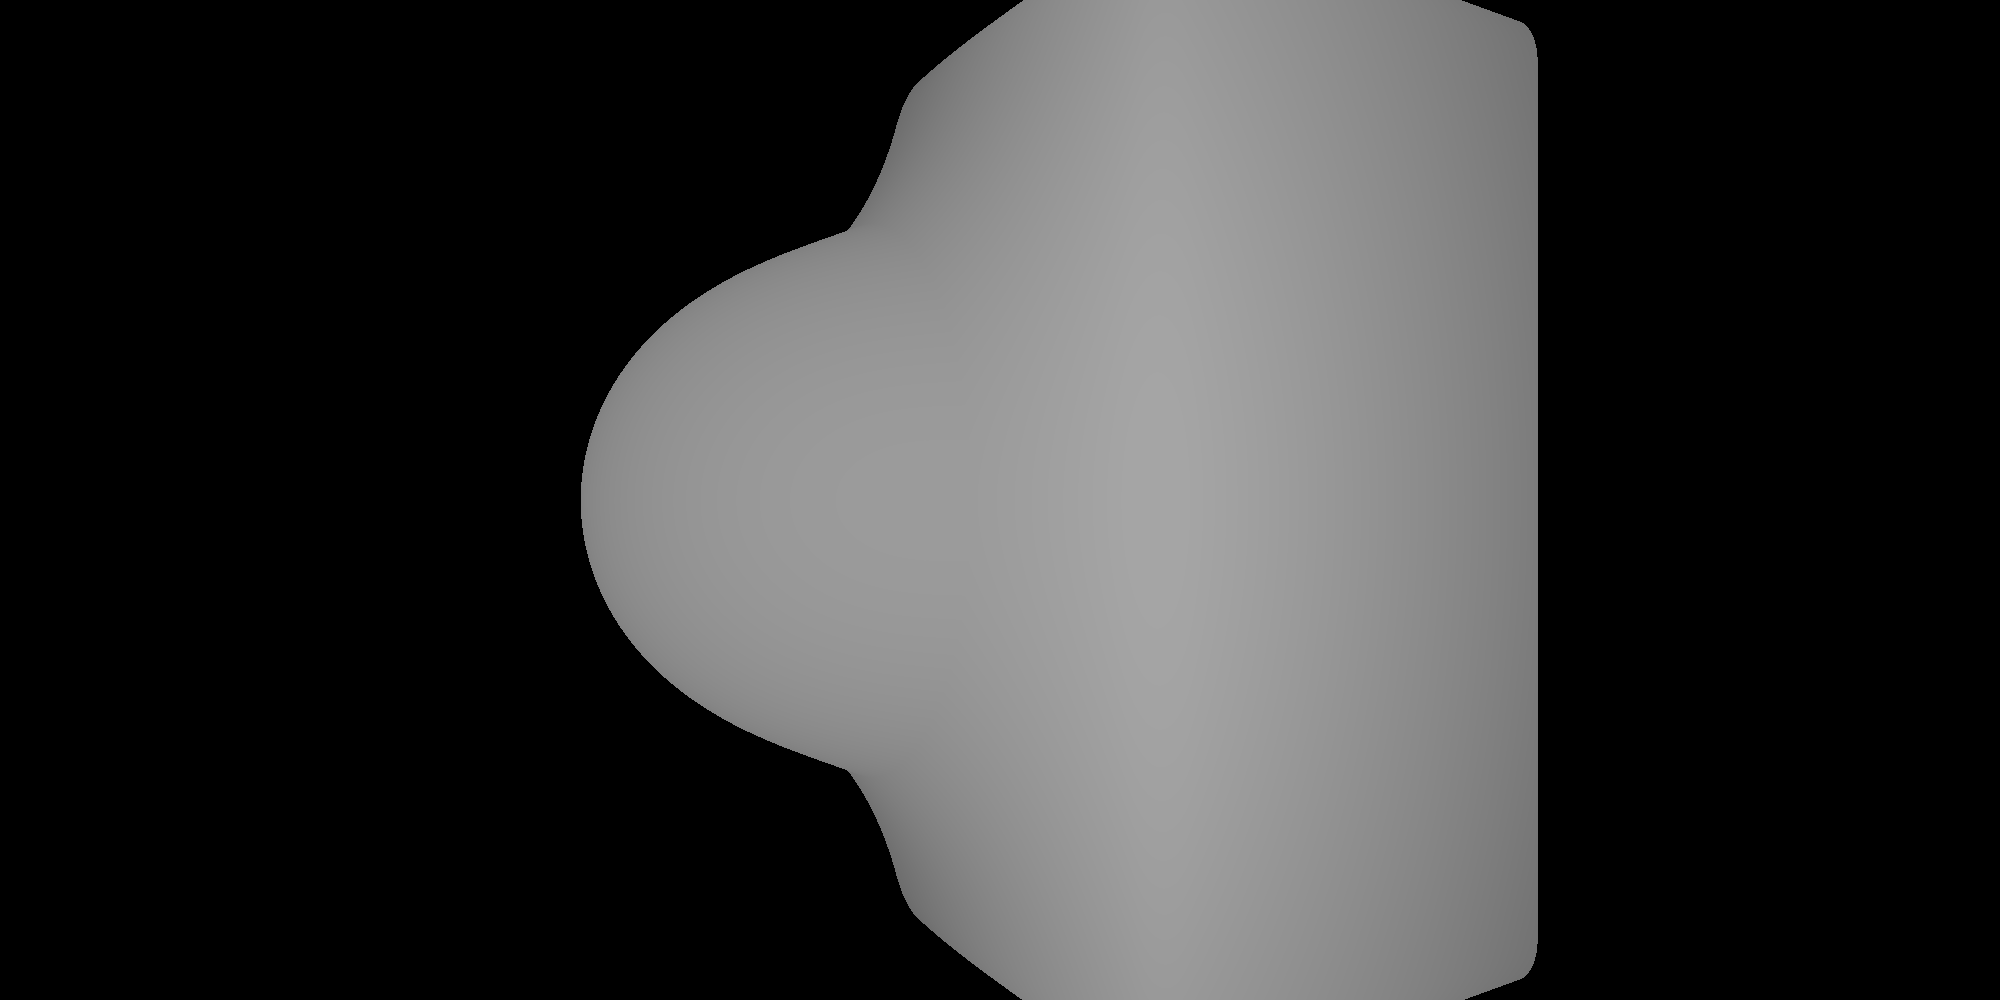
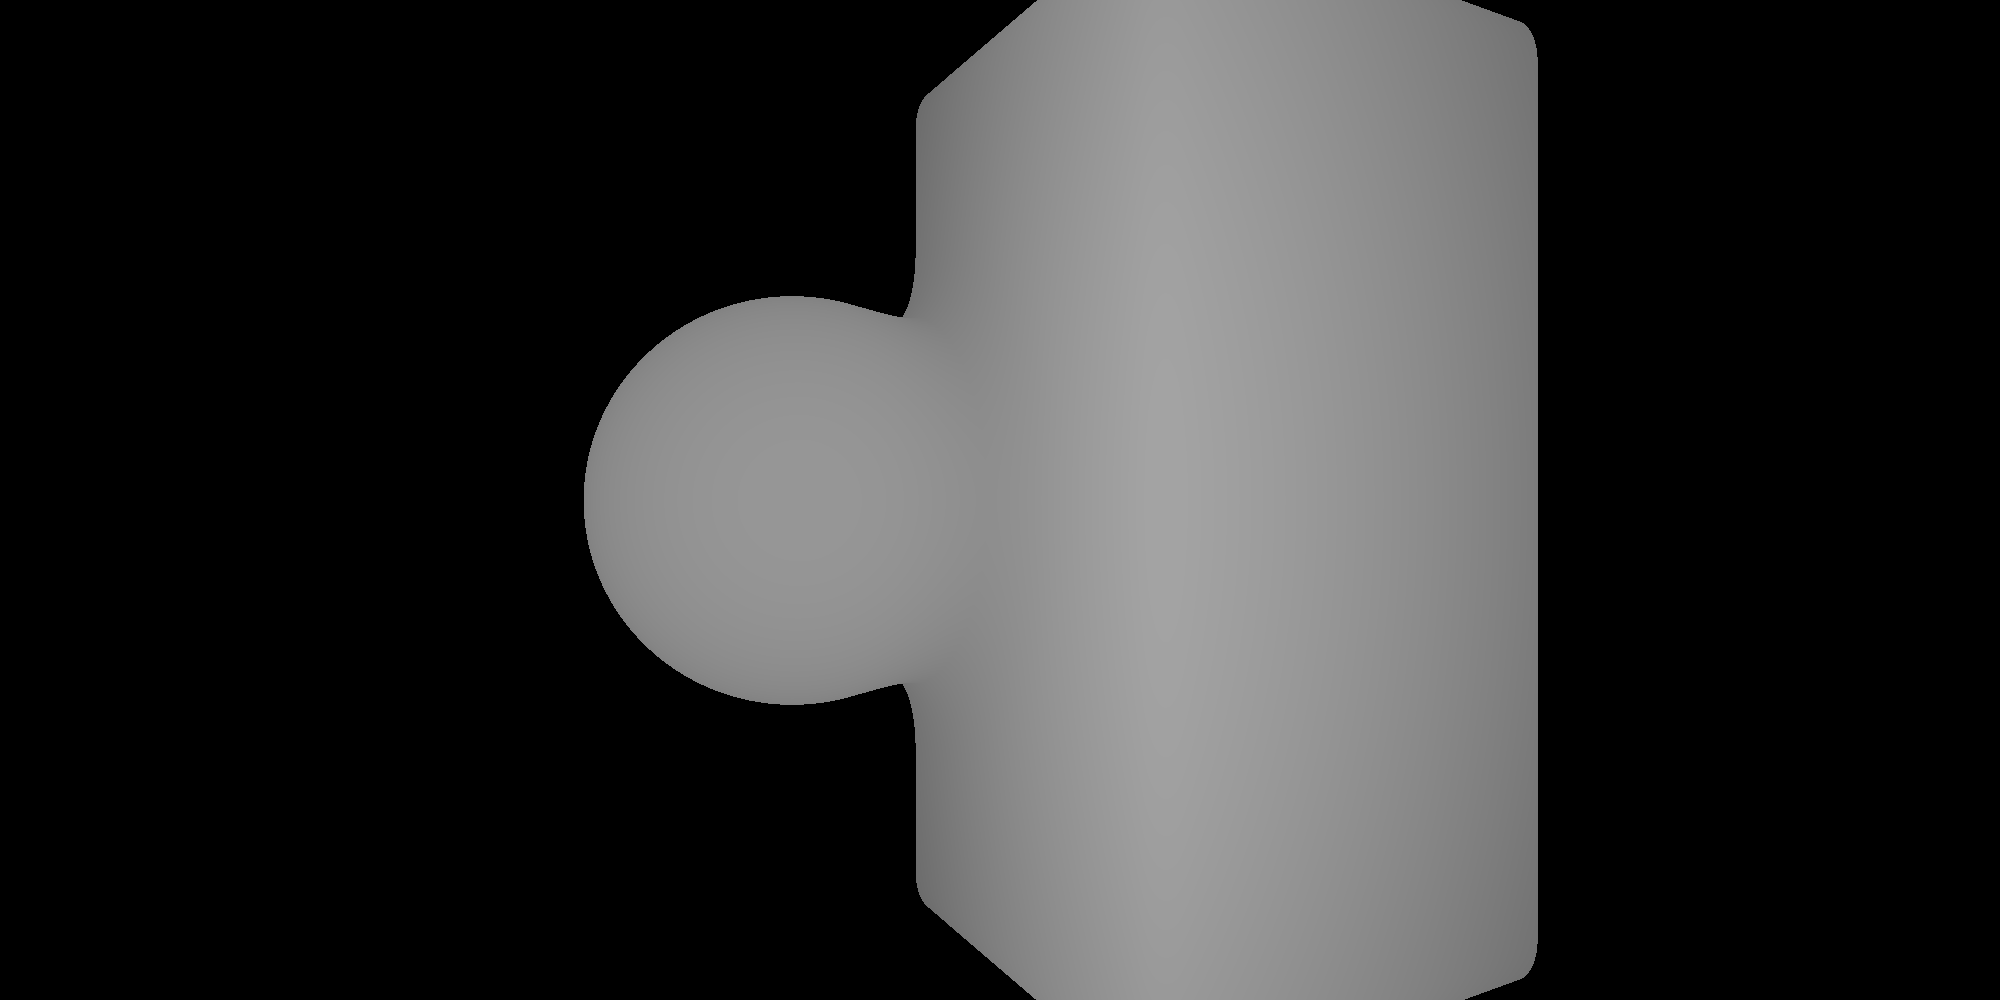
Fixed colour blending

diff --git a/src/scene.rs b/src/scene.rs
@@ -330,7 +330,7 @@ impl Scene {
                         let new_min = left_dist.min(right_dist) - h * h * k * (1.0 / 5.0);
                         //mix between the two colours
 
-                        let mean_col = (left_col + right_col) / 2.0;
+                        /*let mean_col = (left_col + right_col) / 2.0;
 
                         let how_close_to_left =
                             ((left_dist - new_min) / (left_dist - right_dist).abs()).min(1.0);
@@ -347,7 +347,20 @@ impl Scene {
                         let col = left_col * how_close_to_right + right_col * how_close_to_left;
                         let col = mean_col * (h) + col * (1.0 - h);
 
-                        (new_min, col)
+                        (new_min, col)*/
+
+                        let diff = left_dist - right_dist;
+                        if diff.abs() < 0.01 {
+                            let mean_col = (left_col + right_col) / 2.0;
+                            return (new_min, mean_col);
+                        } else {
+                            let how_close_to_left = (diff / diff.abs()).min(1.0);
+                            let how_close_to_right = 1.0 - how_close_to_left;
+                            let col = left_col * how_close_to_right + right_col * how_close_to_left;
+                            let mean_col = (left_col + right_col) / 2.0;
+                            let col = mean_col * (h) + col * (1.0 - h);
+                            (new_min, col)
+                        }
                     }
                     Operation::Intersection => {
                         if left_dist > right_dist {

diff --git a/src/main.rs b/src/main.rs
@@ -76,7 +76,7 @@ fn main() {
     object2.fragment_shader = Rc::new(|point| Vec3::new(0.0, 1.0, 0.0));
 
     scene.scene = TreeNode::Node(ObjectTree {
-        operation: scene::Operation::SmoothUnion(2.0),
+        operation: scene::Operation::SmoothUnion(0.5),
         left: Box::new(TreeNode::Leaf(object1)),
         right: Box::new(TreeNode::Leaf(object2)),
     });
